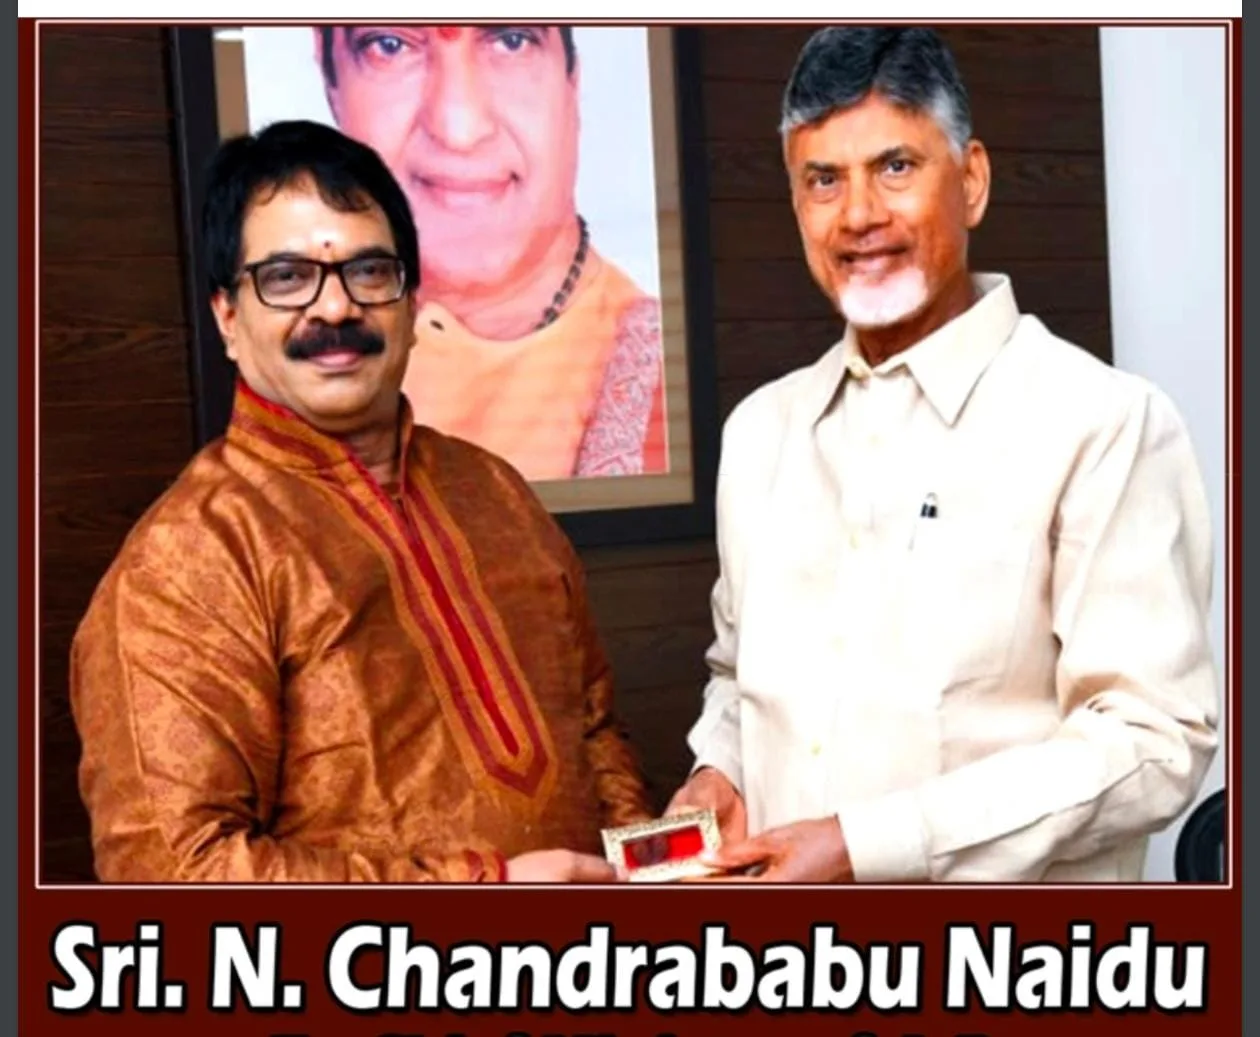
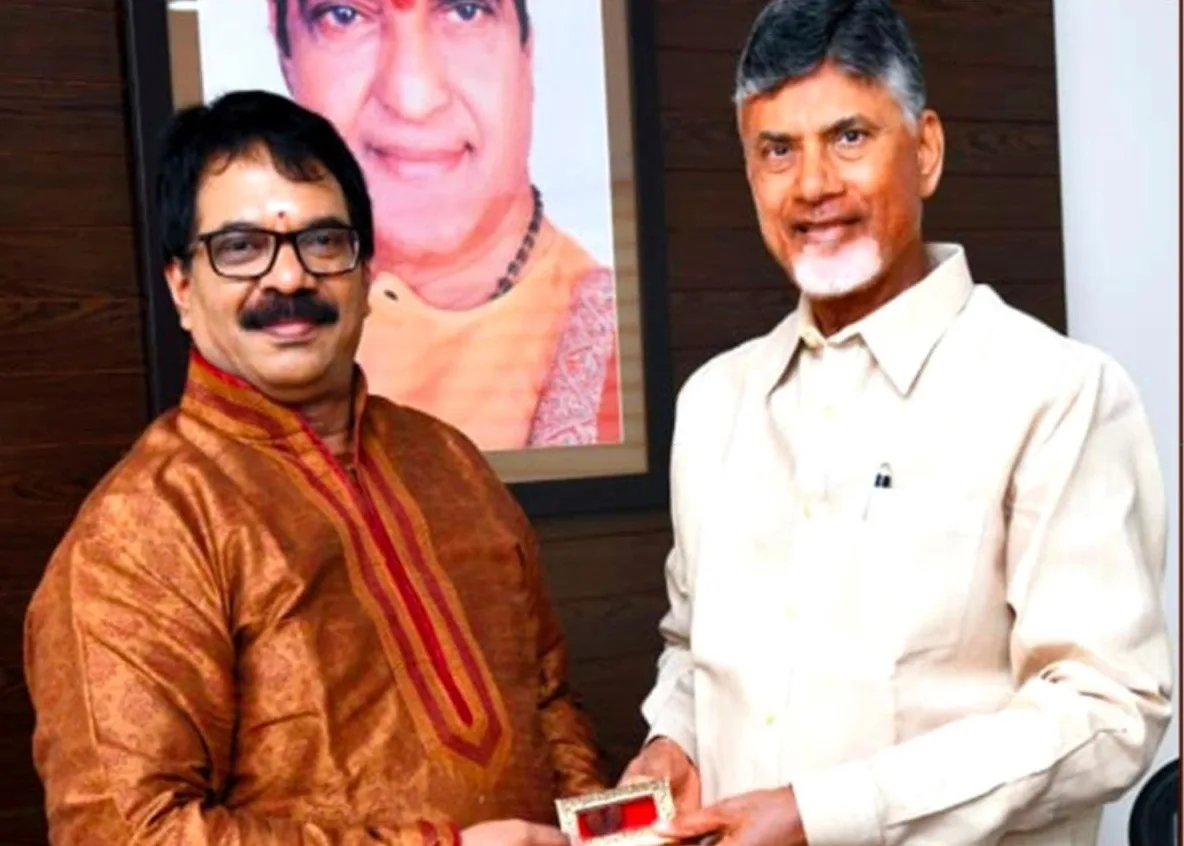
Founder slideshow: no pause button, 2.5 s per photo, instant change; remove name labels from photos 02 and 08
Claude-Session: https://claude.ai/code/session_01PJCE96wV48knFfzcVH7L5B

diff --git a/src/components/home/founder.tsx b/src/components/home/founder.tsx
@@ -2,13 +2,13 @@
 
 // "Founder's Word": his bio beside a slideshow of his photos (all 17), with captions and thumbnails.
 // The slideshow moves on every few seconds while it is on screen. It stops while the visitor hovers
-// over it or uses it, can be paused, and never moves by itself when reduced motion is asked for.
+// over it or uses it, and never moves by itself when reduced motion is asked for. Photos change
+// instantly (no sliding), at Rado's request.
 
 import { useEffect, useRef, useState } from "react";
 import { founderBio, publishedFounderSlides as slides } from "@/data/founder";
 import { site } from "@/data/site";
 import { useReducedMotion } from "@/lib/client-store";
-import { Pause, Play } from "@/components/ui/icons";
 import { ArrowButtons } from "./rail";
 
 export function FounderCarousel() {
@@ -17,11 +17,10 @@ export function FounderCarousel() {
   const [i, setI] = useState(0);
   const count = slides.length;
   const reduced = useReducedMotion();
-  const [paused, setPaused] = useState(false);
   const [holding, setHolding] = useState(false); // hover or keyboard focus inside
   const [visible, setVisible] = useState(false);
-  const auto = !reduced && !paused && !holding && visible;
-  const INTERVAL = 4500;
+  const auto = !reduced && !holding && visible;
+  const INTERVAL = 2500; // ms each photo stays
 
   useEffect(() => {
     const el = rail.current;
@@ -52,7 +51,7 @@ export function FounderCarousel() {
     if (!el) return;
     const n = ((k % count) + count) % count;
     // jump straight back to the first photo instead of sliding past all of them
-    el.scrollTo({ left: n * el.clientWidth, behavior: k >= count || k < 0 ? "instant" : "smooth" });
+    el.scrollTo({ left: n * el.clientWidth, behavior: "instant" });
   };
 
   // only run while the slideshow is on screen
@@ -70,7 +69,7 @@ export function FounderCarousel() {
       const el = rail.current;
       if (!el) return;
       const n = (i + 1) % count;
-      el.scrollTo({ left: n * el.clientWidth, behavior: n === 0 ? "instant" : "smooth" });
+      el.scrollTo({ left: n * el.clientWidth, behavior: "instant" });
     }, INTERVAL);
     return () => clearTimeout(t);
   }, [auto, i, count]);
@@ -107,7 +106,7 @@ export function FounderCarousel() {
                 <img
                   src={`/images/founder/${s.id}.webp`}
                   alt={`${site.founder.name} — ${s.caption}`}
-                  loading={k < 2 ? "eager" : "lazy"}
+                  loading={visible && k <= i + 2 ? "eager" : "lazy"}
                   className="size-full object-contain"
                 />
               </div>
@@ -115,15 +114,7 @@ export function FounderCarousel() {
             </figure>
           ))}
         </div>
-        <div className="flex items-center justify-between gap-4">
-          <button
-            type="button"
-            onClick={() => setPaused(!paused)}
-            aria-label={paused ? "Play slideshow" : "Pause slideshow"}
-            className={`flex size-12 items-center justify-center rounded-full border border-edge bg-[rgba(5,12,20,0.5)] text-heading hover:border-chalk ${reduced ? "invisible" : ""}`}
-          >
-            {paused ? <Play size={16} /> : <Pause size={16} />}
-          </button>
+        <div className="flex items-center justify-end gap-4">
           <ArrowButtons label="photo" onPrev={() => go(i - 1)} onNext={() => go(i + 1)} />
         </div>
         <div ref={thumbs} className="flex [scrollbar-width:none] gap-2 overflow-x-auto pb-1">
